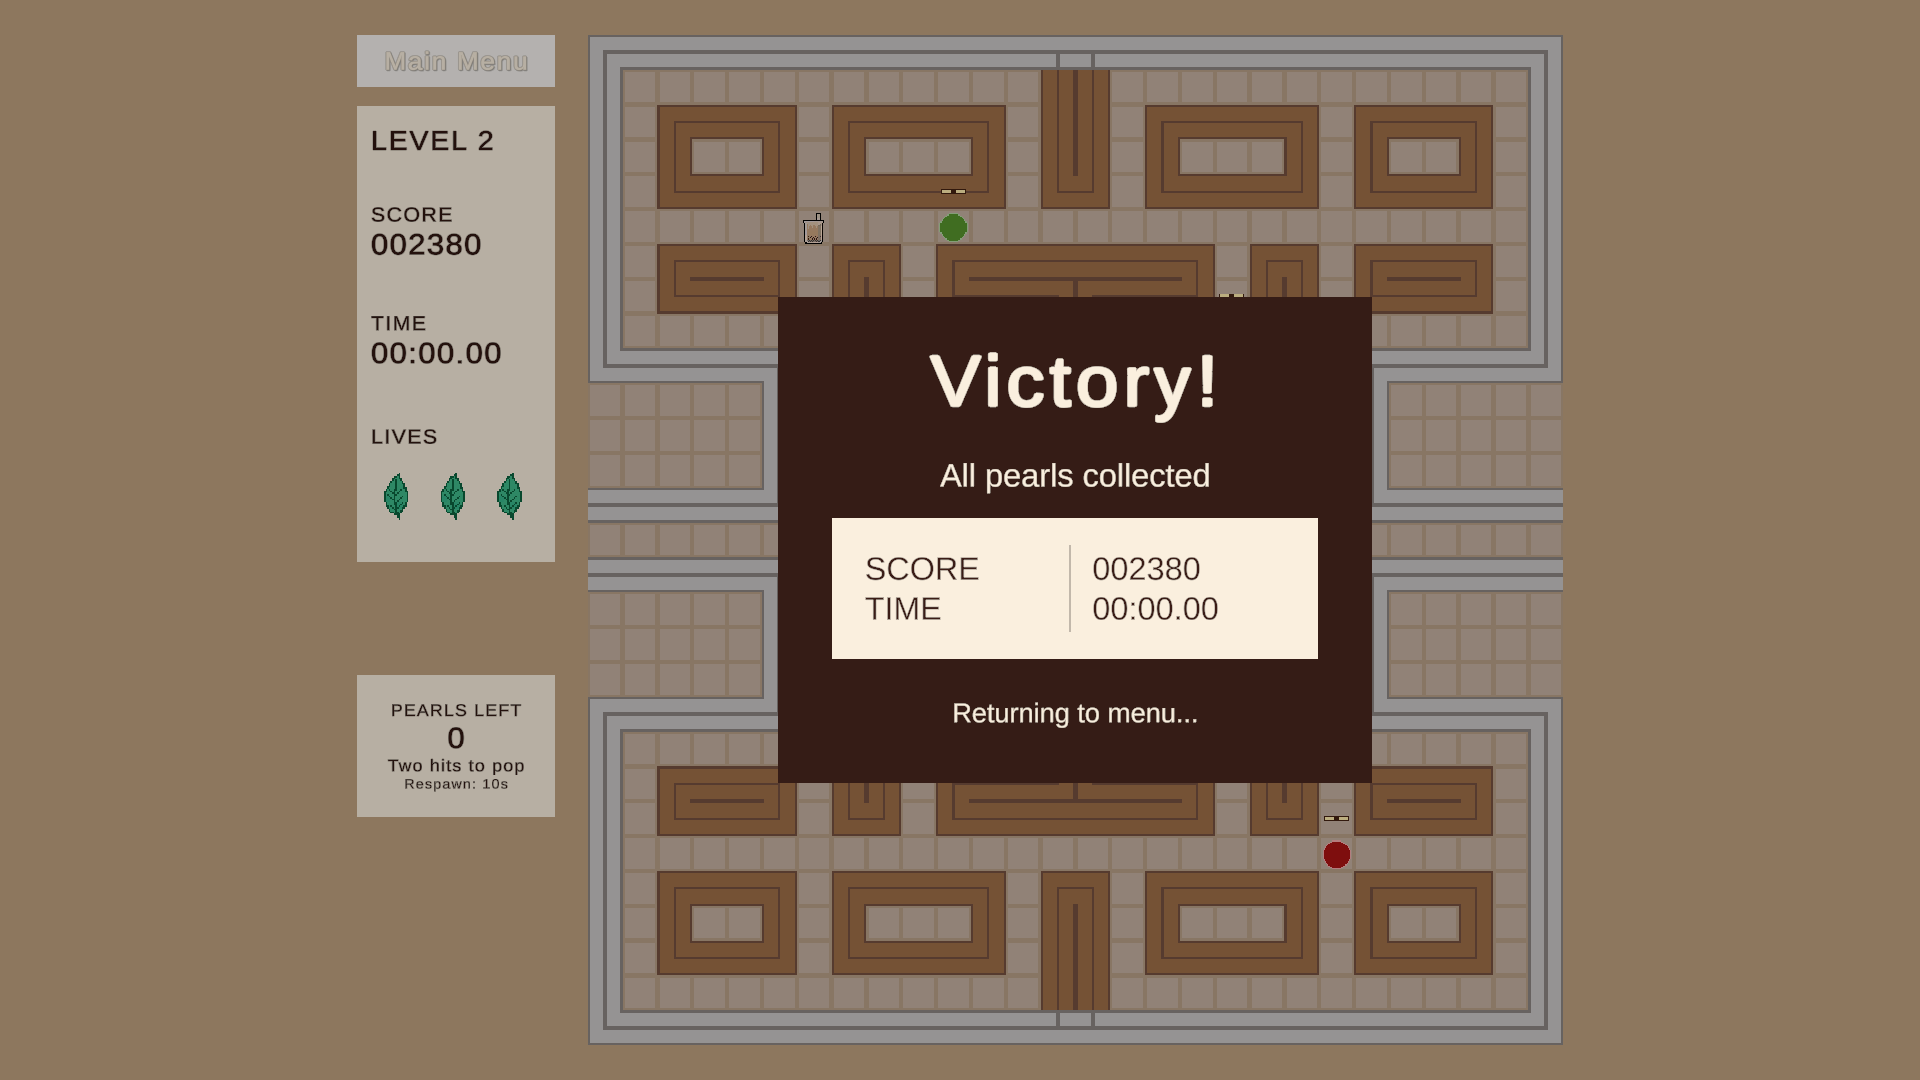
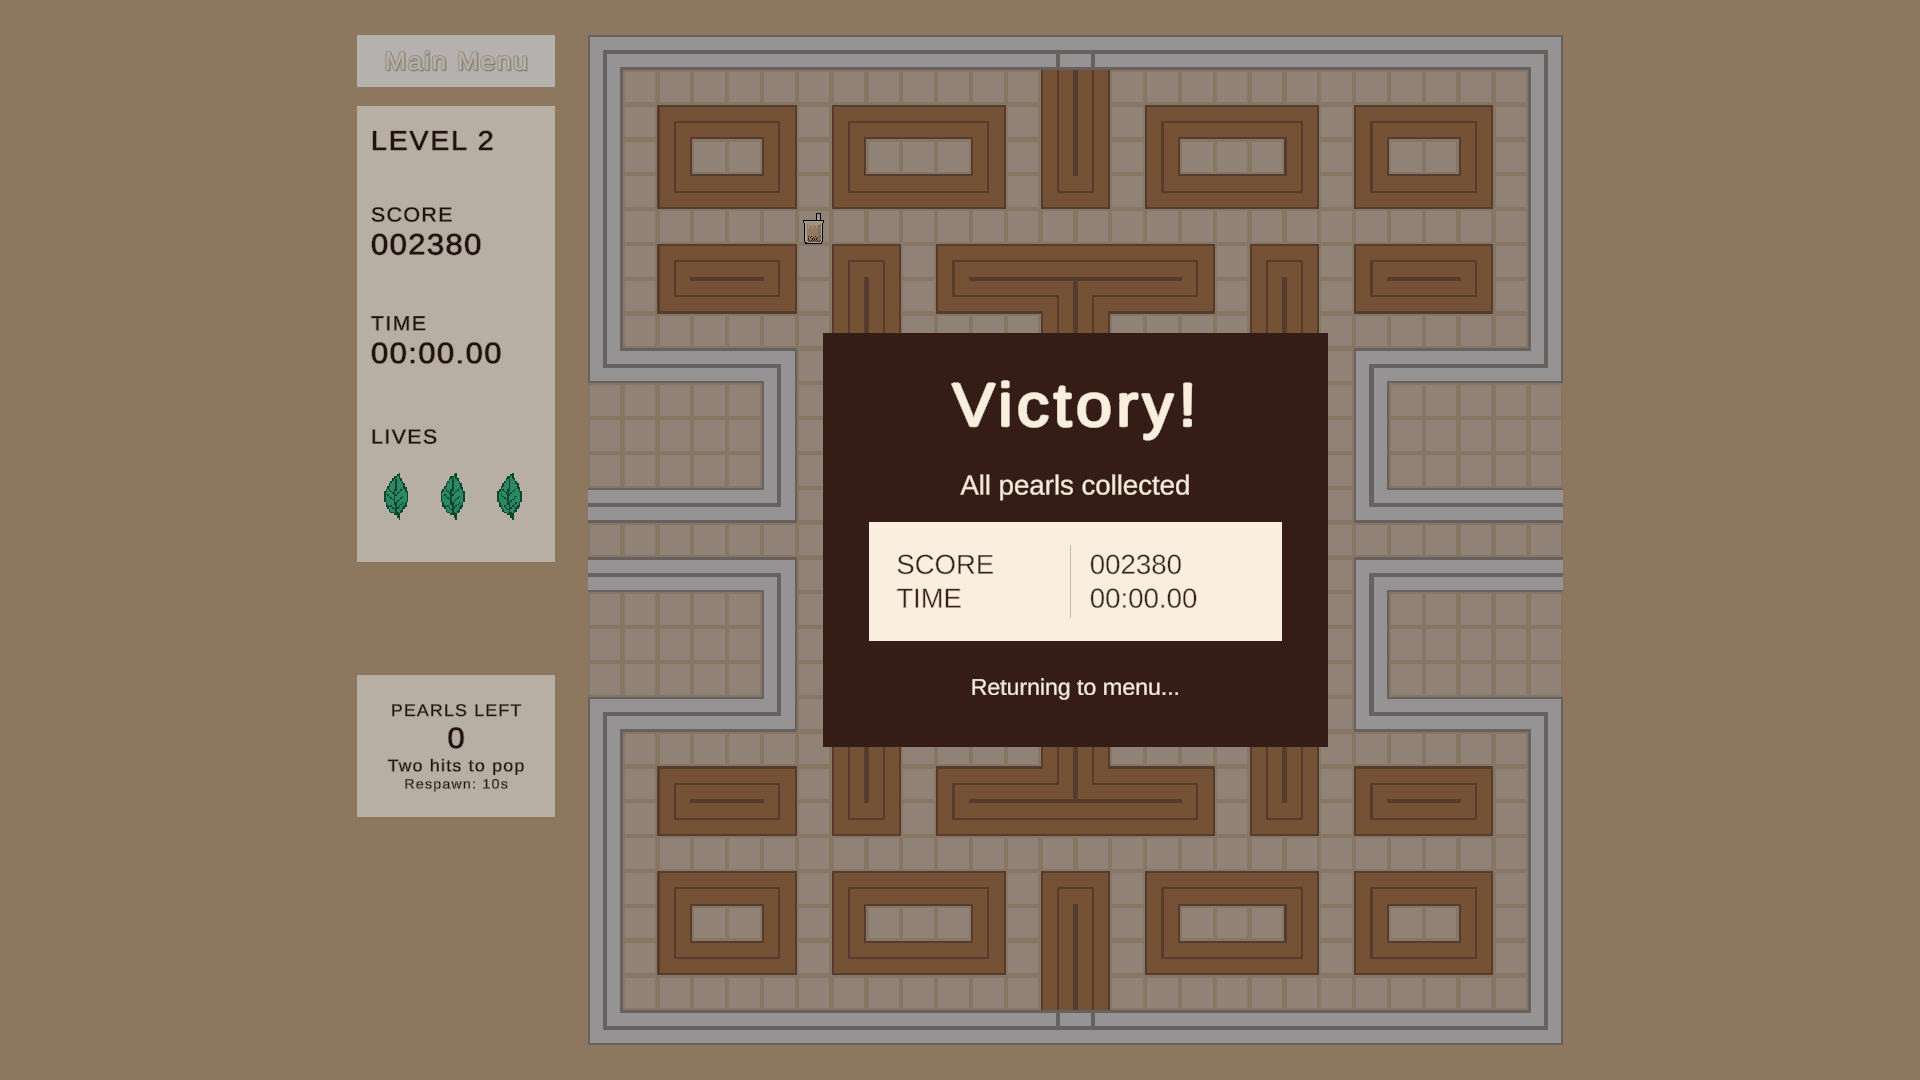
Round panel size and screenshots updated.

Changed region(s): [[0.4062, 0.275, 0.7188, 0.7333], [0.6875, 0.7639, 0.7188, 0.825], [0.4688, 0.1833, 0.5, 0.2139]]

diff --git a/Screenshots/README.md b/Screenshots/README.md
@@ -10,5 +10,7 @@
 | [04-level-2-pearl-shot.png](04-level-2-pearl-shot.png) | Golden projectile and hit feedback |
 | [05-level-2-health.png](05-level-2-health.png) | Two-cell enemy health display |
 | [06-victory.png](06-victory.png) | Victory results screen |
+| [07-game-over.png](07-game-over.png) | Game Over results screen |
+| [08-ready.png](08-ready.png) | Countdown and movement/shooting instructions |
 
 Captured from the game without Unity Editor panels. These are gameplay showcase frames, rather than a recorded complete playthrough. Original game artwork is unchanged.
